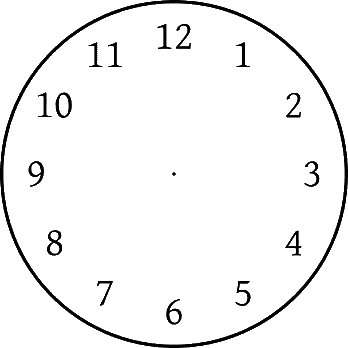
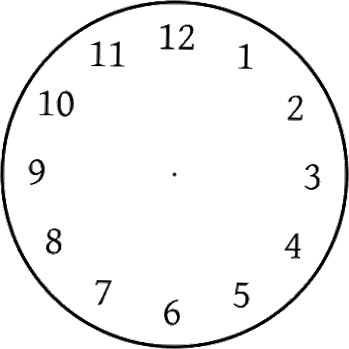
Image horloge ada ok

diff --git a/sketch.js b/sketch.js
@@ -75,7 +75,9 @@ function drawDigitalClock() {
 function drawClock() {
   // Draw the clock background
   noStroke();
-  image(imgClock, cx - 85, cy - 87, imgClock.width / 2, imgClock.height / 2)
+  image(imgAdaHorloge, cx - 91, cy - 97, 174, 193)
+  image(imgClock, cx - 91, cy - 87, imgClock.width / 2, imgClock.height / 2)
+
 
   // Angles for sin() and cos() start at 3 o'clock;
   // subtract HALF_PI to make them start at the top
@@ -84,7 +86,7 @@ function drawClock() {
   let h = map(hour() + norm(minute(), 0, 60), 0, 24, 0, TWO_PI * 2) - HALF_PI;
 
   // Draw the hands of the clock
-  stroke(0, 200, 0);
+  stroke(0);
   strokeWeight(1);
   line(cx, cy, cx + cos(s) * secondsRadius, cy + sin(s) * secondsRadius);
   strokeWeight(2);
@@ -280,6 +282,7 @@ function setup() {
   imgAda = loadImage('./Img/ada.jpg')
   imgClock = loadImage('./Img/horloge.png')
   imgRail = loadImage('./Img/rail1.png')
+  imgAdaHorloge = loadImage('./Img/adaRond.png')
 
   //appel du button
   buttonPokemon()
